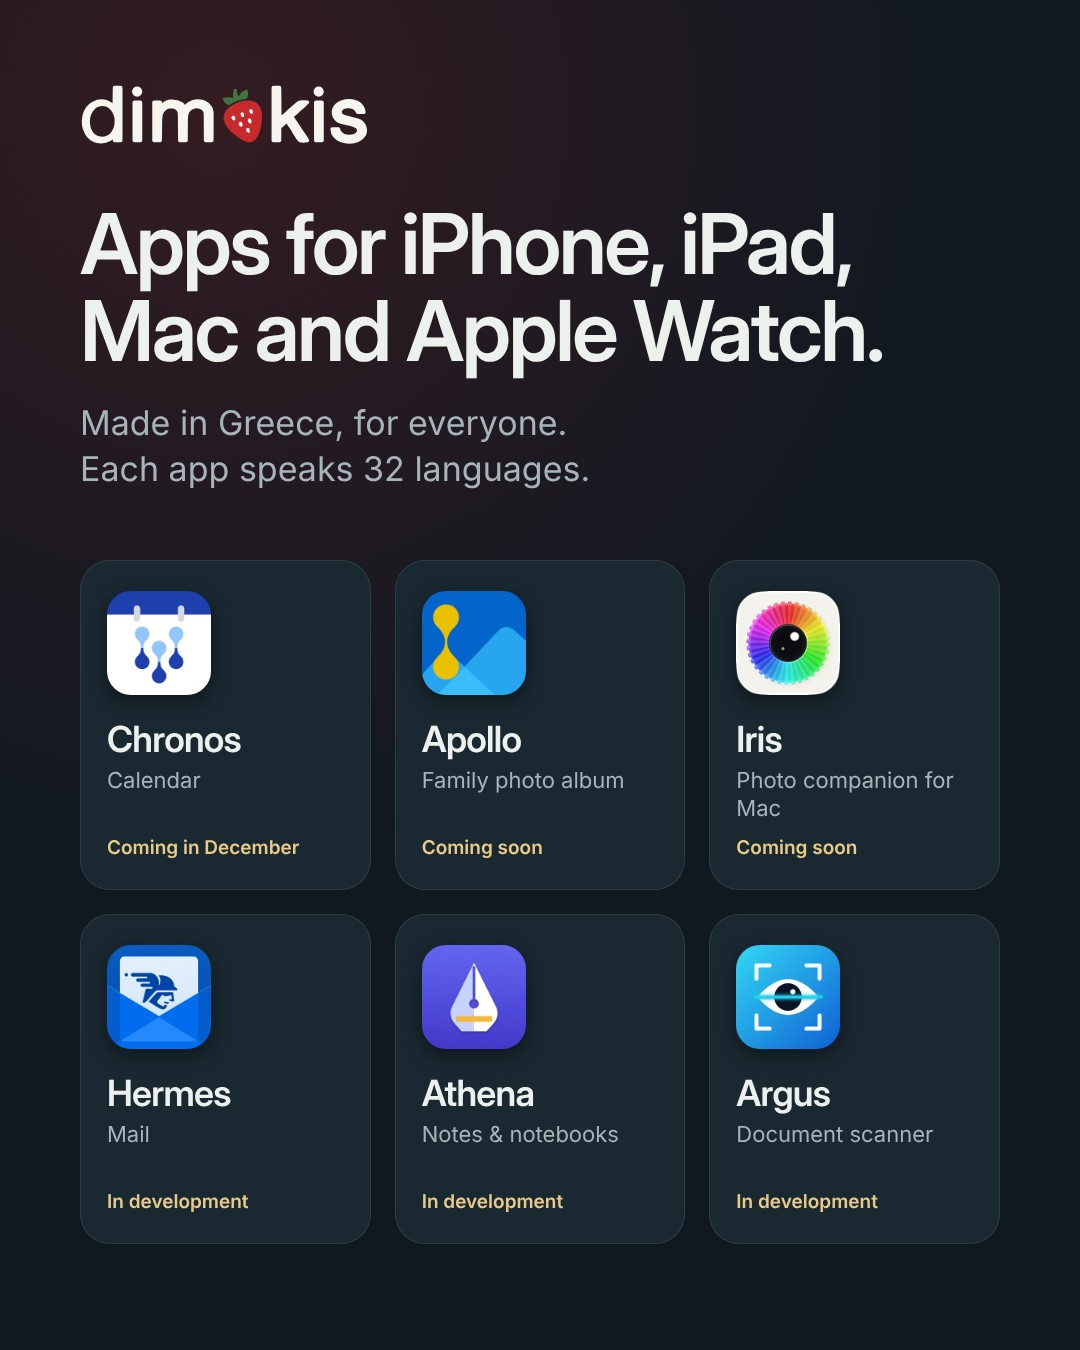
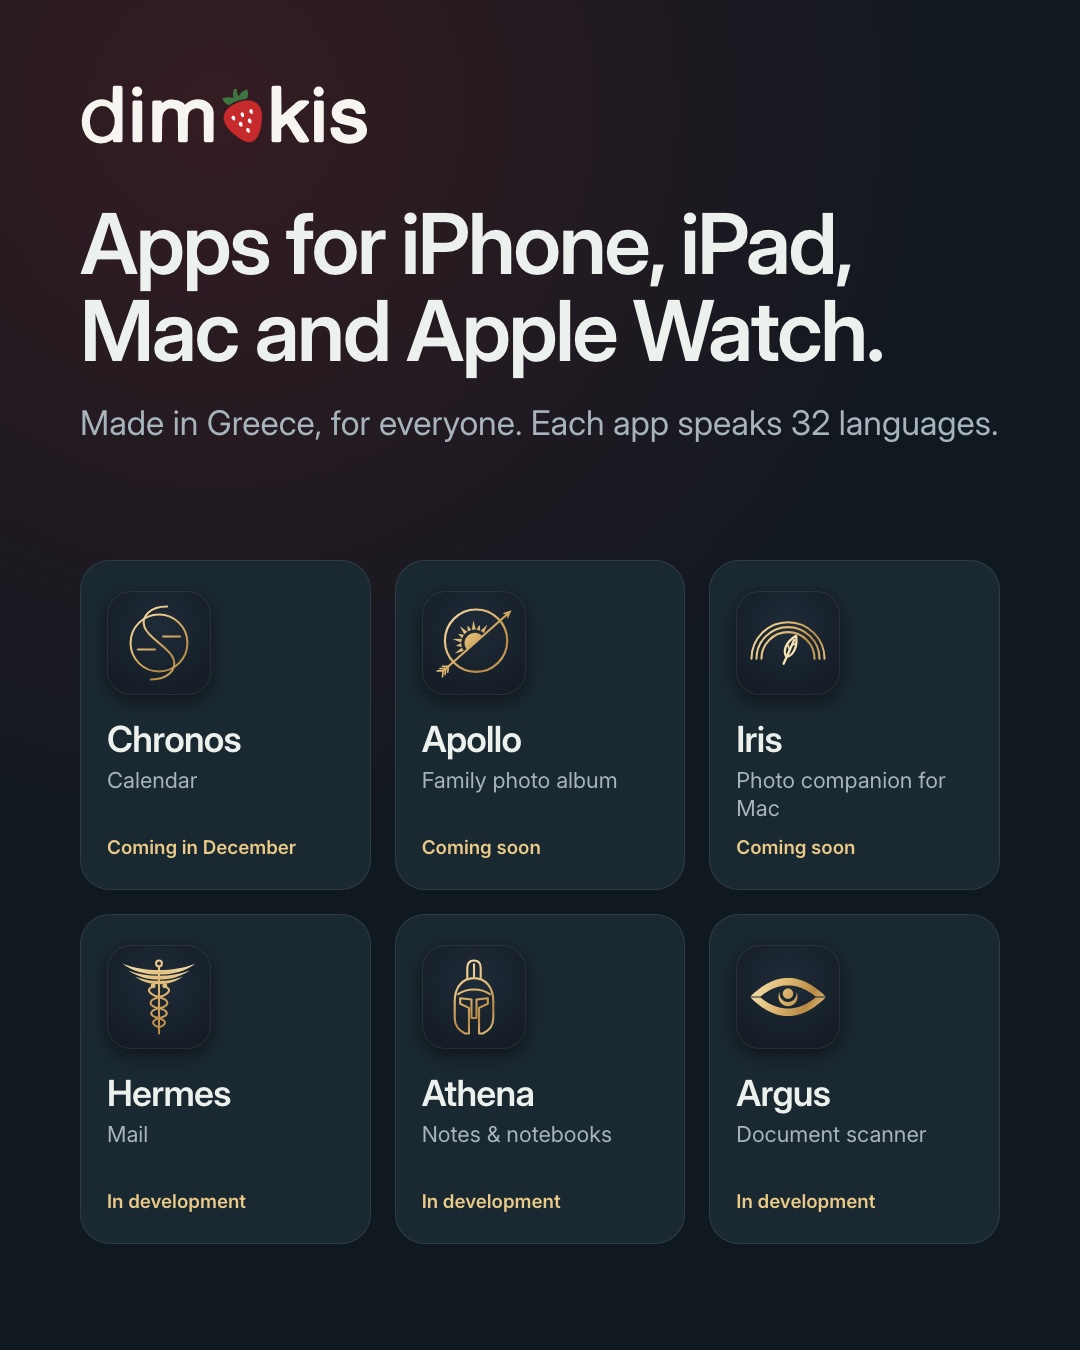
Social: χρυσά εμβλήματα στην εικόνα της Γνωριμίας (00-intro)

diff --git a/_tools/social_images.js b/_tools/social_images.js
@@ -89,7 +89,8 @@ function cover() {
 function intro() {
   const cards = ORDER.map((k) => {
     const a = APPS[k];
-    return `<div class="card"><img src="${url(`assets/icons/${k}.png`)}">
+    // Χρυσά εμβλήματα (ίδια με το εξώφυλλο Facebook και το banner YouTube), όχι τα έγχρωμα εικονίδια.
+    return `<div class="card"><div class="emb"><img src="${url(`assets/logos/${k}-emblem.svg`)}"></div>
       <b>${a.name}</b><span>${a.kind}</span><i>${a.status}</i></div>`;
   }).join('');
   return head(1080, 1350, `
@@ -101,7 +102,9 @@ function intro() {
     .grid{position:absolute;left:80px;right:80px;top:560px;display:grid;grid-template-columns:repeat(3,1fr);gap:24px}
     .card{background:#1A2831;border:1px solid rgba(237,241,238,.10);border-radius:30px;padding:30px 26px;
       display:flex;flex-direction:column;align-items:flex-start;gap:6px;height:330px}
-    .card img{width:104px;height:104px;border-radius:24px;margin-bottom:16px;box-shadow:0 6px 18px rgba(0,0,0,.45)}
+    .card .emb{width:104px;height:104px;border-radius:24px;margin-bottom:16px;display:flex;align-items:center;justify-content:center;
+      background:radial-gradient(circle at 50% 35%,#1F2B38,#121A23);box-shadow:0 6px 18px rgba(0,0,0,.45),inset 0 0 0 1px rgba(233,202,136,.10)}
+    .card .emb img{width:76px;height:76px}
     .card b{font-size:36px;font-weight:600;letter-spacing:-.02em}
     .card span{font-family:"Inter";font-size:22px;color:#A7B4BB;line-height:1.25}
     .card i{font-style:normal;font-family:"Inter";font-size:19px;font-weight:600;color:#E9CA88;margin-top:auto}
